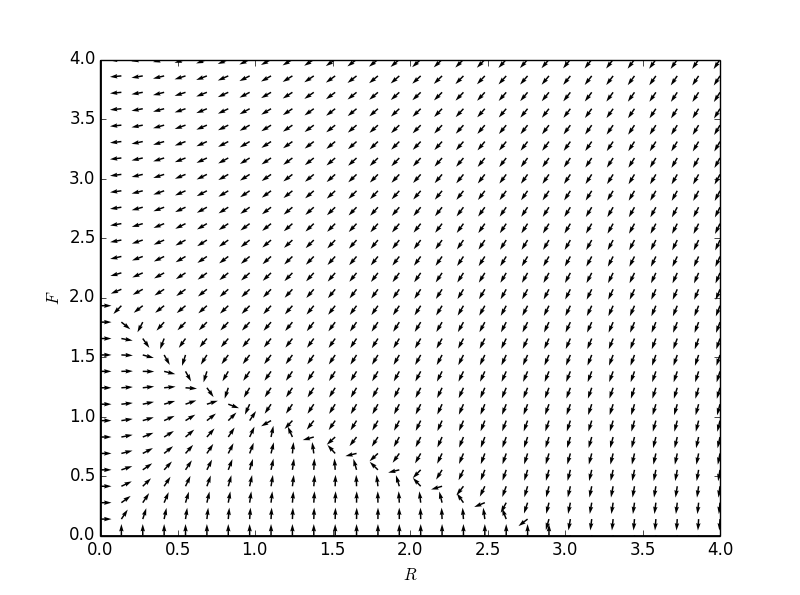
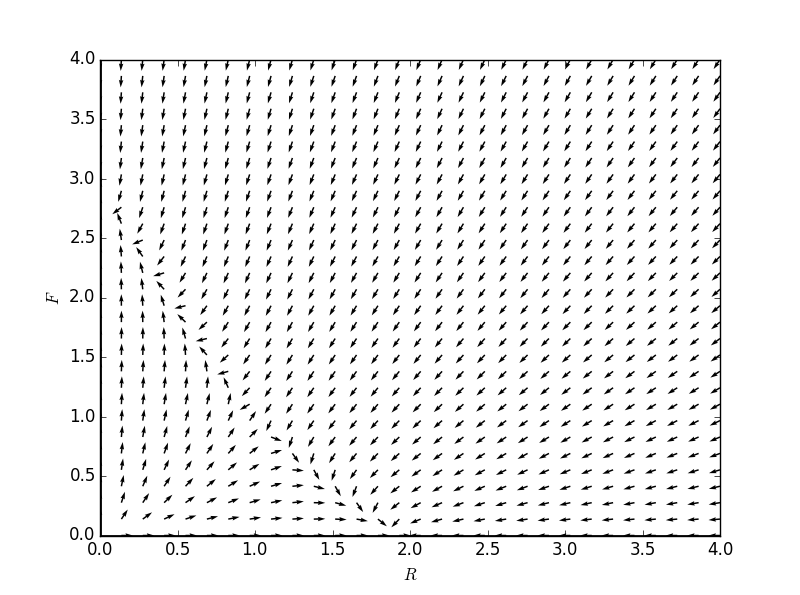
plot

Changed region(s): [[0.1562, 0.242, 0.9062, 0.9076], [0.125, 0.0908, 0.6875, 0.8471]]

diff --git a/python_codes/11.py b/python_codes/11.py
@@ -147,9 +147,29 @@ Rdomain = np.linspace(0,4,30)
 Fdomain = np.linspace(0,4,30)
 
 fg5 = directionField(formulaR, formulaF,Rdomain, Fdomain)
-points = [(0.3,0.2),(0.5,0.2)]
+points = [(0.3,0.2),(0.5,0.2),(2.0,4.0),(4.0,2.0),(3,4),(4,3),(0.3,0.4),(0.2,0.2)]
 for point in points:
     Tvals,Rvals,Fvals = numericalApproxForTwo(formulaR, formulaF, point[0], point[1], dt = 0.001, steps = 20000)
     plt.plot(Rvals, Fvals)
 
 fg5.show()
+
+
+# exercise 1
+R = Function('R')
+F = Function('F')
+
+formulaR = R(t) + 2*F(t)
+formulaF = -1*F(t)
+
+Rdomain = np.linspace(-5,5,30)
+Fdomain = np.linspace(-5,5,30)
+
+fg6 = directionField(formulaR, formulaF,Rdomain, Fdomain)
+points = [(-2,2)]
+for point in points:
+    Tvals,Rvals,Fvals = numericalApproxForTwo(formulaR, formulaF, point[0], point[1], dt = 0.001, steps = 20000)
+    plt.plot(Rvals, Fvals)
+
+fg6.show()
+

diff --git a/11FieldsAndPlane.md b/11FieldsAndPlane.md
@@ -201,6 +201,17 @@ $$\begin{cases} \frac{dx}{dt} = x(2-x-y) \\ \frac{dy}{dt} = 3(3-y-2x) - 2xy \end
 ```
 ![11-07TwoSpecies](images/11-07TwoSpecies.png)  
 
- 
+可以看出在根据初值的不同，随着时间变化会出现两种趋势,看几个初值问题的解：
 
+```
+    fg5 = directionField(formulaR, formulaF,Rdomain, Fdomain)
+    points = [(0.3,0.2),(0.5,0.2),(2.0,4.0),(4.0,2.0),(3,4),(4,3),(0.3,0.4),(0.2,0.2)]
+    for point in points:
+        Tvals,Rvals,Fvals = numericalApproxForTwo(formulaR, formulaF, point[0], point[1], dt = 0.001, steps = 20000)
+        plt.plot(Rvals, Fvals)
+
+    fg5.show()
+```
+
+![11-08TwoSolutions](images/11-08TwoSolutions.png)
 
